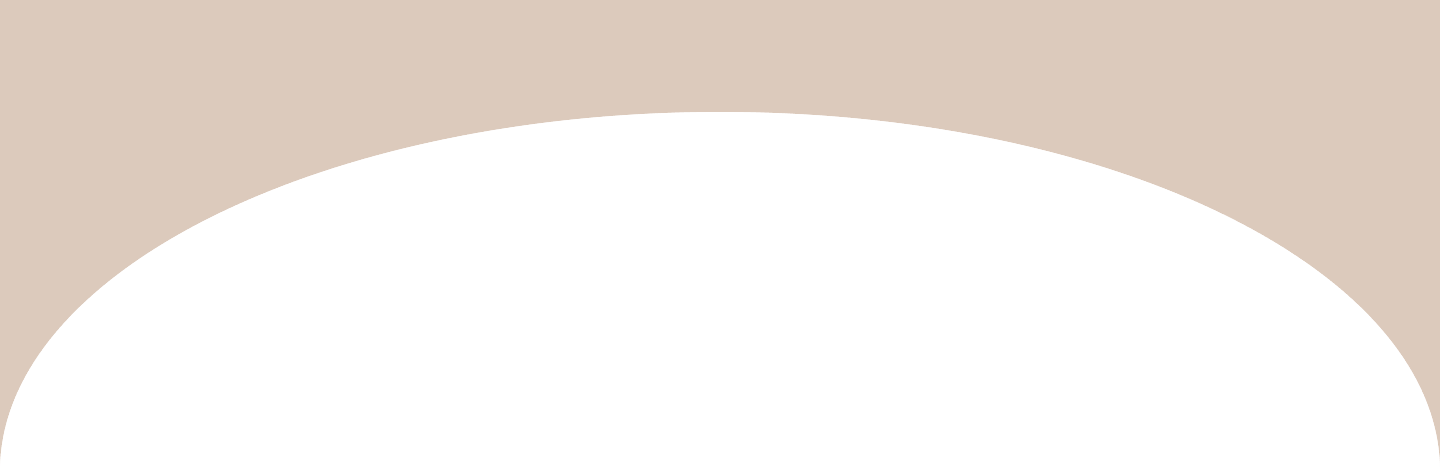
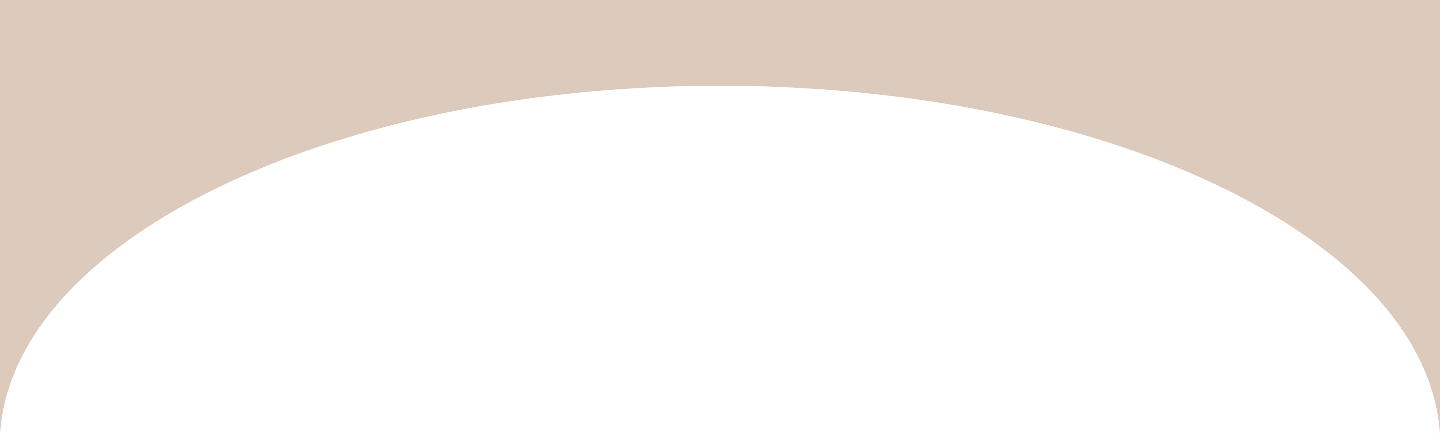
alteracoes1 97-03

diff --git a/css/style.css b/css/style.css
@@ -466,7 +466,7 @@ position: absolute;
 .abouttext{ 
     display: flex;
     max-width: 1150px;
-    margin-top: -400px;
+    margin-top: -450px;
     margin-left: 50px;
 }
 .about h2{
@@ -476,17 +476,17 @@ position: absolute;
     flex-wrap: nowrap;
 }
 .abouttext p{
-    font-size:38px;
+    font-size:28px;
     font-style: normal;
     font-weight: 400;
-    line-height: 100%;
+    line-height: 120%;
     max-width:909px;
     margin-left: 23px;
 }
 .abouttextmain{
     position: relative;
     display: flex;
-    padding: 60px 0;
+    padding: 100px 0 50px;
     max-width: 1800px;
     margin: auto;
 }
@@ -498,6 +498,7 @@ position: absolute;
     font-size: 12px;
     font-weight: 500;
     line-height: 200%;
+    margin-left: 100px;
 }
 .abouttextmain p span{
     display: flex;
@@ -506,7 +507,15 @@ position: absolute;
 }
 .abouttextmain img{
     max-width: 100%;
-    margin-right: 100px;
+}
+.abouttextmain sub{
+    display: flex;
+    font-size: 14px;
+    justify-content: center;
+    text-align: center;
+    margin: auto;
+    margin-top: 30px;
+    line-height: 90%;
 }
 .reveal{
     position: relative;
@@ -602,14 +611,14 @@ position: absolute;
 }
 .servicescontainer .servicestitle h2{
     font-size: 20px;
-    font-weight: 500;
+    font-weight: bold;
     flex-wrap: nowrap;
 }
 .servicestitle p{
-    font-size:40px;
+    font-size:28px;
     font-style: normal;
     font-weight: 400;
-    line-height: 100%;
+    line-height: 120%;
     max-width: 635px;
     margin-left: 23px;
 }
@@ -620,7 +629,8 @@ swiper-container.mySwiper {
     height: 100%;
     max-height: 705px;
     cursor: grab;
-    margin: 0 !important;
+    margin: 0;
+    margin-top: -150px;
   }
   swiper-slide.swiper1 {
     position: relative;
@@ -640,6 +650,7 @@ swiper-container.mySwiper {
     height: 100%;
     max-height: 480px;
     z-index: 999;
+    margin-top: -20px;
 }
 /* THE MAINCONTAINER HOLDS EVERYTHING */
 .maincontainer{
@@ -708,7 +719,7 @@ swiper-container.mySwiper {
         max-height: 990px;
     }
     .cardcontainer{
-        margin-top: -50px;
+        margin-top: 0px;
     }
     .servicestitle{    
         margin-top: -400px;
@@ -748,6 +759,7 @@ swiper-container.mySwiper {
     .cardcontainer{
         max-height: 450px;
         margin-top: -102px;
+        margin-bottom: 90px;
     }
 } 
   .wavec1{
@@ -763,6 +775,9 @@ swiper-container.mySwiper {
   @media screen and (max-width:1650px) {
       .wavec1{
           top: -100px;
+      }
+      .wavepref{
+        top: -60;
       }
       }
   @media screen and (max-width:1270px) {
@@ -788,7 +803,8 @@ swiper-container.mySwiper {
     height: 100%;
     max-height: 900px;
     background-color: #DCCABC;
-    margin-top: -2px;
+    margin-top: -70px;
+    z-index: 999;
 }
 .preference{
     z-index: 9;
@@ -811,10 +827,10 @@ swiper-container.mySwiper {
 .preference p{
     color: #E8C948;
     z-index: 9;
-    font-size:48px;
+    font-size:28px;
     font-style: normal;
-    font-weight: 100;
-    line-height: 100%;
+    font-weight: 400;
+    line-height: 120%;
     max-width: 529px;
     margin-left: 23px;
 }
@@ -949,10 +965,10 @@ swiper-container.mySwiper {
 .portifolio p{
     color: #030606;
     z-index: 9;
-    font-size:40px;
+    font-size:28px;
     font-style: normal;
     font-weight: 400;
-    line-height: 100%;
+    line-height: 120%;
     max-width: 735px;
     margin-left: 23px;
 }
@@ -991,7 +1007,7 @@ swiper-slide.swiper2 {
       cursor: grab;
 }
 .portifoliocontainer{
-    padding-bottom: 700px;
+    padding-bottom: 450px;
 }
     .portifoliotitle{
         margin-top: -250px;
@@ -1024,7 +1040,7 @@ swiper-slide.swiper2 {
         padding:0;
         color: #030606;
         z-index: 999;
-        padding: 0 50px 230px;
+        padding: 0 50px 100px;
     }
     .portifoliotitle{
         display: flex;
@@ -1191,10 +1207,10 @@ swiper-slide.swiper2 {
 .reviewstitle p{
     color: #030606;
     z-index: 9;
-    font-size:48px;
+    font-size:28px;
     font-style: normal;
-    font-weight: 300;
-    line-height: 100%;
+    font-weight: 400;
+    line-height: 120%;
     max-width: 430px;
     margin-left: 23px;
 }
@@ -1262,7 +1278,7 @@ swiper-slide.swiper2 {
     margin-top: -100;
 }
 }
-@media screen and (max-width: 890px) {
+@media screen and (max-width: 990px) {
     .reviewscontainer{
         max-height: 400px;
     }

diff --git a/js/javascript.js b/js/javascript.js
@@ -14,37 +14,37 @@ document.onclick = function(e){
     }
 }
 // scroll navbar
-const navbar = document.getElementById("homenav");
+// const navbar = document.getElementById("homenav");
 
-let lastScrollTop = 0;
-addEventListener("scroll", () => {
-    // Current scroll position
-    const scrollTop =
-        window.pageYOffset || document.documentElement.scrollTop;
+// let lastScrollTop = 0;
+// addEventListener("scroll", () => {
+//     // Current scroll position
+//     const scrollTop =
+//         window.pageYOffset || document.documentElement.scrollTop;
 
-    // check scroll direction
-    const distance = scrollTop - lastScrollTop;
-    const currentTop = parseInt(
-        getComputedStyle(navbar).top.split("px")
-    );
+//     // check scroll direction
+//     const distance = scrollTop - lastScrollTop;
+//     const currentTop = parseInt(
+//         getComputedStyle(navbar).top.split("px")
+//     );
 
-    // Clamp value between -80 and 0
-    let amount = Math.max(
-        Math.min(
-            currentTop +
-                (distance < 0
-                    ? Math.abs(distance) // scrolling up
-                    : -Math.abs(distance)// scrolling down
-                    ) * 40, // (1)
-            0
-        ),
-        -80
-    );
+//     // Clamp value between -80 and 0
+//     let amount = Math.max(
+//         Math.min(
+//             currentTop +
+//                 (distance < 0
+//                     ? Math.abs(distance) // scrolling up
+//                     : -Math.abs(distance)// scrolling down
+//                     ) * 40, // (1)
+//             0
+//         ),
+//         -80
+//     );
 
-    console.log(amount, currentTop, Math.abs(distance));
-    navbar.style.top = `${amount}px`;
-    lastScrollTop = scrollTop;
-});
+//     console.log(amount, currentTop, Math.abs(distance));
+//     navbar.style.top = `${amount}px`;
+//     lastScrollTop = scrollTop;
+// });
 
 // scroll behavior
 function reveal() {
@@ -84,61 +84,3 @@ window.addEventListener("scroll", reveal);
 // function closePopup(){
 //   popup.classList.remove("open-popup");
 // }
-
-
-//countUp about
-// let section_counter = document.querySelector('#section_counter');
-// let counters = document.querySelectorAll('.counter-item .counter');
-
-// Scroll Animation
-
-// let CounterObserver = new IntersectionObserver(
-//   (entries, observer) => {
-//     let [entry] = entries;
-//     if (!entry.isIntersecting) return;
-
-//     let speed = 500;
-//     counters.forEach((counter, index) => {
-//       function UpdateCounter() {
-//         const targetNumber = +counter.dataset.target;
-//         const initialNumber = +counter.innerText;
-//         const incPerCount = targetNumber / speed;
-//         if (initialNumber < targetNumber) {
-//           counter.innerText = Math.ceil(initialNumber + incPerCount);
-//           setTimeout(UpdateCounter, 10);
-//         }
-//       }
-//       UpdateCounter();
-
-//       if (counter.parentElement.style.animation) {
-//         counter.parentElement.style.animation = '';
-//       } else {
-//         counter.parentElement.style.animation = ` 0.3s ease forwards ${
-//           index / counters.length + 0.1
-//         }s`;
-//       }
-//     });
-//     observer.unobserve(section_counter);
-//   },
-//   {
-//     root: null,
-//     threshold: window.innerWidth > 768 ? 0.4 : 0.3,
-//   }
-// );
-
-// CounterObserver.observe(section_counter);
-
-//map google
-//let map;
-//
-//async function initMap() {
-//  //@ts-ignore
-//  const { Map } = await google.maps.importLibrary("map iframe");
-//
-//  map = new Map(document.getElementById("map"), {
-//    center: { lat: -34.397, lng: 150.644 },
-//    zoom: 8,
-//  });
-//}
-//
-//initMap();

diff --git a/index.html b/index.html
@@ -78,23 +78,26 @@
             <div class="about" id="about">
               <div class="abouttext reveal">
                 <h2>about us</h2>
-                <p>Looking for a cleaning company that you can trust? Look no further! We are a family-owned business based in Columbus, OH, with over 5 years of experience. We take pride in providing the highest quality cleaning services that are both effective and affordable. Plus, we are licensed and insured, so you can have peace of mind knowing that your home or business is in good hands.</p>
+                <p>Looking for a cleaning company that you can trust? Look no further! We are a <span style="font-weight:bold;">family-owned business</span> based in Columbus, OH, with over <span style="font-weight:bold;">5 years of experience</span>. We take pride in providing the highest quality cleaning services that are both effective and affordable. Plus, we are licensed and insured, so you can have peace of mind knowing that your home or business is in good hands.</p>
               </div>
               <div class="abouttextmain reveal">
+                <div class="img">
                 <img src="./assets/about-bg-img.png" alt="" class="bgs-web-aboutt reveal" draggable="false">
+              <br><sub>Business owners
+                <br> <br>
+                Edieisa & Edevaldo
+              </sub></div>
                 <p>Between work, family and an ever-growing to-do list, there simply aren't enough hours in the day to ensure that your home or office is perfectly clean. That's why Maximum Shine Cleaning Services exists - to give you back some of the precious time that would otherwise be wasted cleaning.
                 <br><span>Our specialised cleaning professionals will make sure that your cleaning job is completed as efficiently as possible. We offer many cleaning services in Columbus, Ohio to suit your cleaning needs.</span> 
               <br><img src="./assets/POST_2.png" alt="" draggable="false">
               </p>                
-                </div>
+              </div>
             </div>
         </div>
         <div class="wave waveservices">
           <div class="content"></div>
         </div>
         <div class="servicescontainer" id="services">
-          <!-- <img class="wavec1" src="./assets/Component2.png" alt="" draggable="false"> 
-          <img src="./assets/POST_7.png" alt="" class="bgs-reviews1 formimgsbg" draggable="false">-->
           <div class="services">
             <div class="servicestitle reveal">
                 <h2>Services</h2>
@@ -224,7 +227,7 @@
       </div>
         </div>
         <div class="preferencecontainer">
-          <img class="wavec1" src="./assets/Component3.png" alt="" draggable="false"> 
+          <img class="wavec1 wavepref" src="./assets/Component3.png" alt="" draggable="false"> 
 
           <img style="position: absolute;" src="./assets/preferencebg-m.webp" alt="" class="bgs-mob preferencebgm" draggable="false"> 
           <img src="./assets/preferencebg.webp" alt="" class="bgs-web" draggable="false"> 
